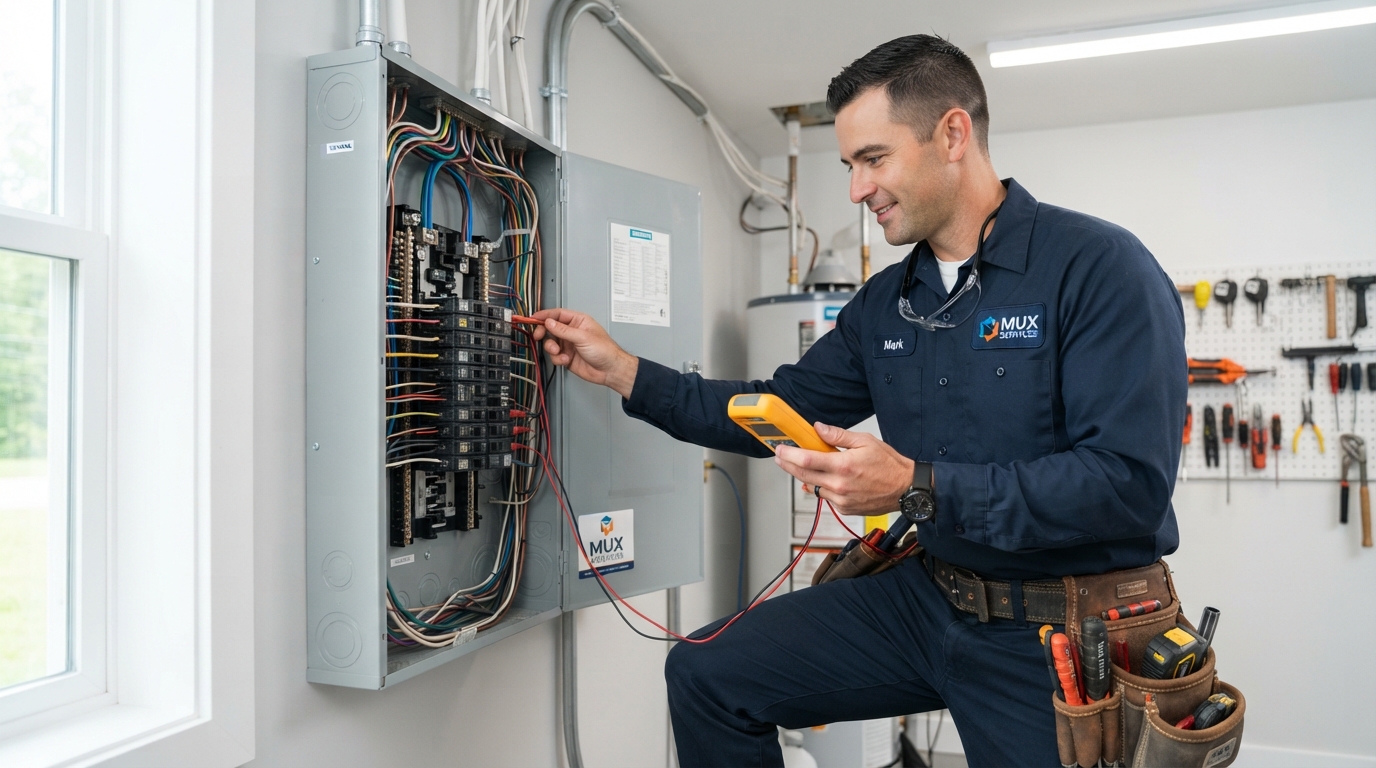
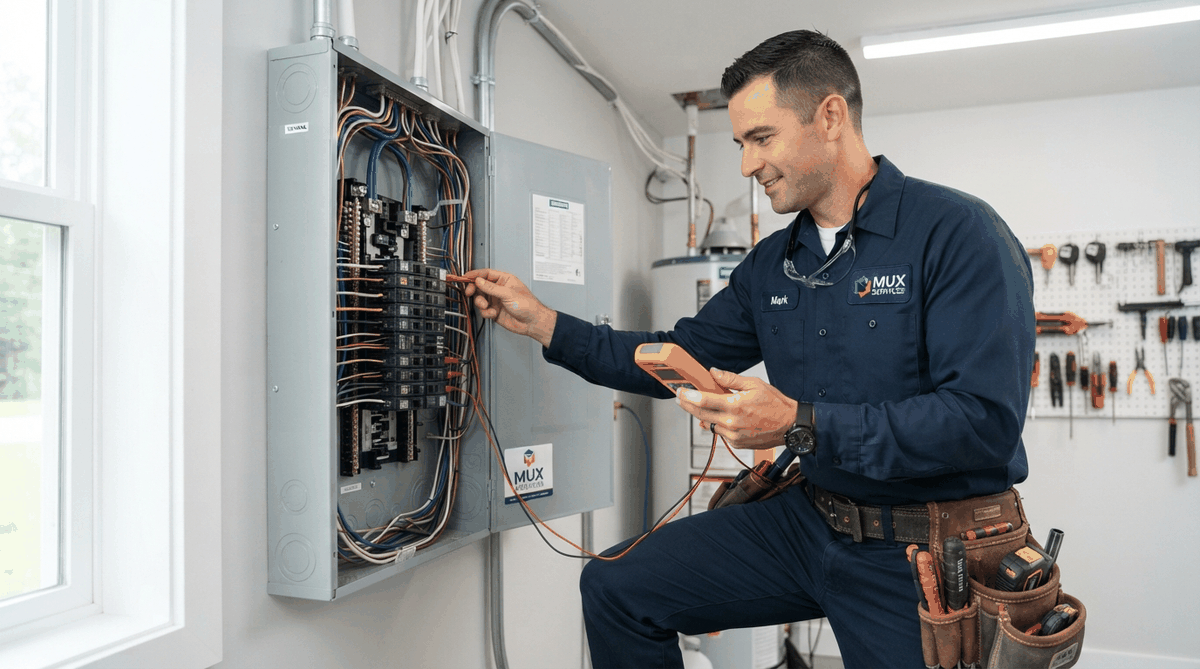
Convert oversized images to modern WebP format and optimize assets (95% size reduction)

diff --git a/src/pages/Services.jsx b/src/pages/Services.jsx
@@ -2,18 +2,18 @@ import { useState, useEffect, useRef } from 'react'
 import { bookingsAPI } from '../services/api'
 import './Services.css'
 import webLogo from '../Public/brand-logo-cyan-v3.png'
-import plumberImage from '../Public/plumber.png'
-import carpenterImage from '../Public/carpenter.png'
-import homeCleaningImage from '../Public/cleaner.png'
-import paintingImage from '../Public/painter.png'
-import servicesHeroBanner from '../assets/services-hero-banner.jpg'
-import aluminiumImage from '../Public/glass aluminum .png'
-import gardeningImage from '../Public/gardner.png'
-import acImage from '../Public/AC technicon.png'
-import welderImage from '../Public/welder.png'
-import laundryImage from '../Public/laundary.png'
-import electricianImage from '../Public/electricon.png'
-import applianceImage from '../Public/appliance.png'
+import plumberImage from '../Public/plumber.webp'
+import carpenterImage from '../Public/carpenter.webp'
+import homeCleaningImage from '../Public/cleaner.webp'
+import paintingImage from '../Public/painter.webp'
+import servicesHeroBanner from '../assets/services-hero-banner.webp'
+import aluminiumImage from '../Public/glass aluminum .webp'
+import gardeningImage from '../Public/gardner.webp'
+import acImage from '../Public/AC technicon.webp'
+import welderImage from '../Public/welder.webp'
+import laundryImage from '../Public/laundary.webp'
+import electricianImage from '../Public/electricon.webp'
+import applianceImage from '../Public/appliance.webp'
 const electricianPng = electricianImage
 const electricianJpg = electricianImage
 const acPng = acImage

diff --git a/src/pages/Professionals.jsx b/src/pages/Professionals.jsx
@@ -1,16 +1,16 @@
 import { useState, useMemo, useRef, useEffect } from 'react'
 import './Professionals.css'
-import heroBanner from '../assets/professionals-hero-banner.jpg'
-import electricianImg from '../Public/electricon.png'
-import plumberImg from '../Public/plumber.png'
-import acImg from '../Public/AC technicon.png'
-import carpenterImg from '../Public/carpenter.png'
-import painterImg from '../Public/painter.png'
-import cleanerImg from '../Public/cleaner.png'
-import gardenerImg from '../Public/gardner.png'
-import glassImg from '../Public/glass aluminum .png'
-import applianceImg from '../Public/appliance.png'
-import welderImg from '../Public/welder.png'
+import heroBanner from '../assets/professionals-hero-banner.webp'
+import electricianImg from '../Public/electricon.webp'
+import plumberImg from '../Public/plumber.webp'
+import acImg from '../Public/AC technicon.webp'
+import carpenterImg from '../Public/carpenter.webp'
+import painterImg from '../Public/painter.webp'
+import cleanerImg from '../Public/cleaner.webp'
+import gardenerImg from '../Public/gardner.webp'
+import glassImg from '../Public/glass aluminum .webp'
+import applianceImg from '../Public/appliance.webp'
+import welderImg from '../Public/welder.webp'
 
 function Professionals({ setCurrentPage }) {
   const [selectedCategory, setSelectedCategory] = useState('All')

diff --git a/src/components/HeroSection.jsx b/src/components/HeroSection.jsx
@@ -1,15 +1,15 @@
 import { useState, useEffect } from 'react'
 import './HeroSection.css'
-import electricianSlide from '../Public/electricon.png'
-import plumberSlide from '../Public/plumber.png'
-import acSlide from '../Public/AC technicon.png'
-import carpenterSlide from '../Public/carpenter.png'
-import cleaningSlide from '../Public/cleaner.png'
-import paintingSlide from '../Public/painter.png'
-import gardenerSlide from '../Public/gardner.png'
-import glassSlide from '../Public/glass aluminum .png'
-import welderSlide from '../Public/welder.png'
-import laundrySlide from '../Public/laundary.png'
+import electricianSlide from '../Public/electricon.webp'
+import plumberSlide from '../Public/plumber.webp'
+import acSlide from '../Public/AC technicon.webp'
+import carpenterSlide from '../Public/carpenter.webp'
+import cleaningSlide from '../Public/cleaner.webp'
+import paintingSlide from '../Public/painter.webp'
+import gardenerSlide from '../Public/gardner.webp'
+import glassSlide from '../Public/glass aluminum .webp'
+import welderSlide from '../Public/welder.webp'
+import laundrySlide from '../Public/laundary.webp'
 
 function HeroSection({ setCurrentPage }) {
   const [currentSlide, setCurrentSlide] = useState(0)

diff --git a/src/components/CategorySection.jsx b/src/components/CategorySection.jsx
@@ -1,15 +1,15 @@
 import { useState, useEffect, useRef } from 'react'
 import './CategorySection.css'
-import electricianImg from '../Public/electricon.png'
-import plumberImg from '../Public/plumber.png'
-import acImg from '../Public/AC technicon.png'
-import carpenterImg from '../Public/carpenter.png'
-import cleanImg from '../Public/cleaner.png'
-import paintingImg from '../Public/painter.png'
-import gardenerImg from '../Public/gardner.png'
-import glassImg from '../Public/glass aluminum .png'
-import welderImg from '../Public/welder.png'
-import laundryImg from '../Public/laundary.png'
+import electricianImg from '../Public/electricon.webp'
+import plumberImg from '../Public/plumber.webp'
+import acImg from '../Public/AC technicon.webp'
+import carpenterImg from '../Public/carpenter.webp'
+import cleanImg from '../Public/cleaner.webp'
+import paintingImg from '../Public/painter.webp'
+import gardenerImg from '../Public/gardner.webp'
+import glassImg from '../Public/glass aluminum .webp'
+import welderImg from '../Public/welder.webp'
+import laundryImg from '../Public/laundary.webp'
 
 function CategorySection({ setCurrentPage }) {
   const [currentIndex, setCurrentIndex] = useState(0)

diff --git a/src/components/ProfessionalsSection.jsx b/src/components/ProfessionalsSection.jsx
@@ -1,9 +1,9 @@
 import { useState, useEffect, useRef } from 'react'
 import './ProfessionalsSection.css'
-import electricianImg from '../Public/electricon.png'
-import plumberImg from '../Public/plumber.png'
-import carpenterImg from '../Public/carpenter.png'
-import cleanerImg from '../Public/cleaner.png'
+import electricianImg from '../Public/electricon.webp'
+import plumberImg from '../Public/plumber.webp'
+import carpenterImg from '../Public/carpenter.webp'
+import cleanerImg from '../Public/cleaner.webp'
 
 function ProfessionalsSection({ setCurrentPage }) {
   const [activeIndex, setActiveIndex] = useState(0)

diff --git a/src/pages/About.jsx b/src/pages/About.jsx
@@ -1,6 +1,6 @@
 import './About.css'
-import aboutTeamImg from '../assets/about-team-mission.jpg'
-import aboutCraftImg from '../assets/about-service-craft.jpg'
+import aboutTeamImg from '../assets/about-team-mission.webp'
+import aboutCraftImg from '../assets/about-service-craft.webp'
 
 function About({ setCurrentPage }) {
   const coreValues = [

diff --git a/src/components/PriceOfferSection.jsx b/src/components/PriceOfferSection.jsx
@@ -1,6 +1,6 @@
 import { useState, useEffect, useRef } from 'react'
 import './PriceOfferSection.css'
-import joinBannerImg from '../assets/join-pro-banner.jpg'
+import joinBannerImg from '../assets/join-pro-banner.webp'
 
 function PriceOfferSection({ setCurrentPage }) {
   const [isInView, setIsInView] = useState(false)

diff --git a/src/pages/Login.jsx b/src/pages/Login.jsx
@@ -1,6 +1,6 @@
 import { useState } from 'react'
 import './Login.css'
-import loginScr from '../Public/login scr.png'
+import loginScr from '../Public/login scr.webp'
 import { authAPI } from '../services/api'
 
 function Login({ onSignupClick, onLogin }) {

diff --git a/src/pages/Signup.jsx b/src/pages/Signup.jsx
@@ -1,6 +1,6 @@
 import { useState } from 'react'
 import './Signup.css'
-import loginScr from '../Public/login scr.png'
+import loginScr from '../Public/login scr.webp'
 import { authAPI } from '../services/api'
 
 function Signup({ onLoginClick }) {
